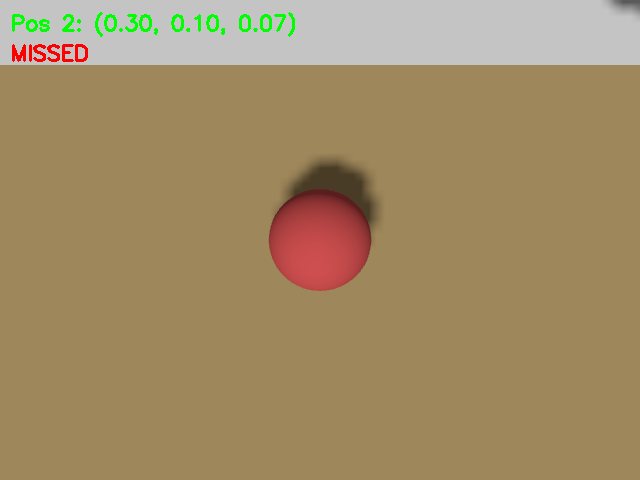
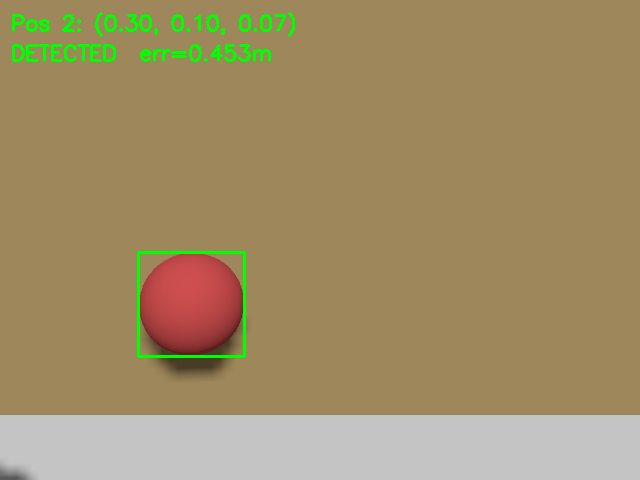
negate centroid

diff --git a/code/ros-gazebo-v1/ros2_ws/src/ur3e_gazebo/ur3e_gazebo/overhead_camera_localizer.py b/code/ros-gazebo-v1/ros2_ws/src/ur3e_gazebo/ur3e_gazebo/overhead_camera_localizer.py
@@ -228,6 +228,7 @@ class OverheadCameraLocalizer(Node):
         pixels = np.frombuffer(msg.data, dtype=np.uint8).reshape(
             msg.height, msg.width, 3
         )
+       # pixels = cv2.flip(pixels, -1) # flip image before computing centroid
         mean_r = float(np.mean(pixels[:, :, 0]))
         mean_g = float(np.mean(pixels[:, :, 1]))
         mean_b = float(np.mean(pixels[:, :, 2]))
@@ -256,8 +257,8 @@ class OverheadCameraLocalizer(Node):
             for box in boxes:
                 if self.model.names[int(box.cls)] in ['sports ball']:
                     x1, y1, x2, y2 = box.xyxy[0]      # bounding box corners [x1, y1, x2, y2]
-                    center_x = int((x1 + x2) / 2)
-                    center_y = int((y1 + y2) / 2)
+                    center_x = -int((x1 + x2) / 2)
+                    center_y = -int((y1 + y2) / 2)
                     cv2.rectangle(pixels, (int(x1), int(y1)), (int(x2), int(y2)), (0, 255, 0), 2)
         
 
